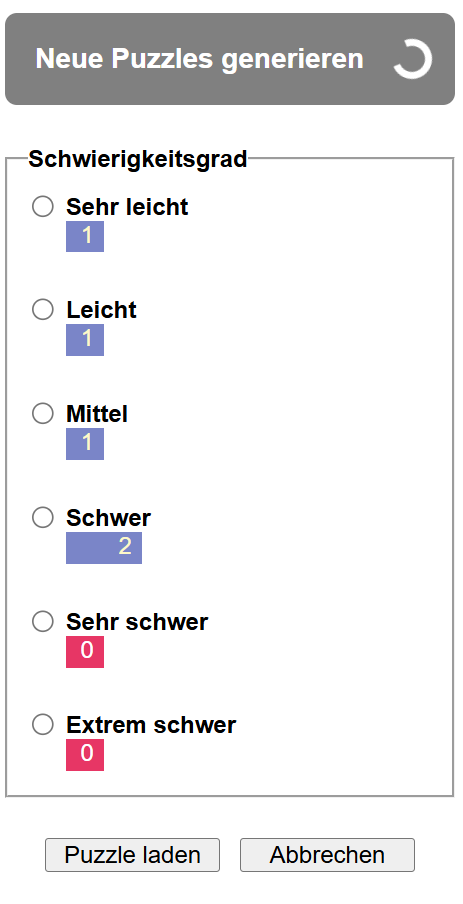
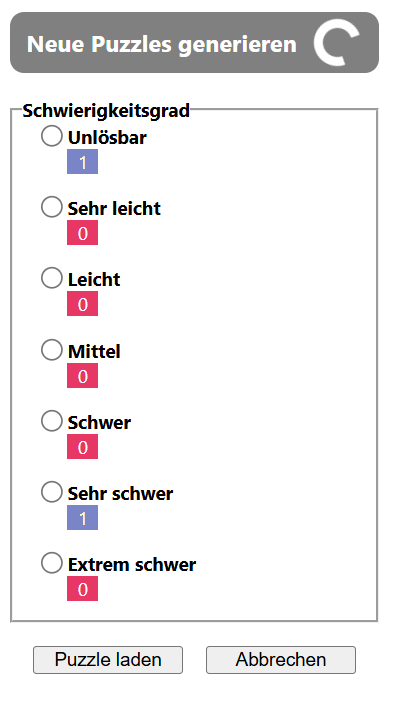
v1967 unloesbar

Changed region(s): [[0.0, 0.0, 0.995, 0.9832], [0.0603, 0.676, 0.4523, 0.7374]]

diff --git a/JS/sudokuCommon.js b/JS/sudokuCommon.js
@@ -1,5 +1,5 @@
 let sudoApp;
-let VERSION = 1066;
+let VERSION = 1067;
 
 // ==========================================
 // Basic classes
@@ -3974,6 +3974,7 @@ class NewPuzzleBuffer {
     // During the initiation of the solver the puzzles in the store 
     // are generated by web-workers in the background.
     constructor() {
+        this.myUnsolvablePuzzles = [];
         this.myVerySimplePuzzles = [];
         this.mySimplePuzzles = [];
         this.myMediumPuzzles = [];
@@ -4023,7 +4024,12 @@ class NewPuzzleBuffer {
     getPuzzle(level) {
         let puzzleRecord = undefined;
         switch (level) {
-            case 'Sehr leicht': {
+             case 'Unlösbar': {
+                if (this.myUnsolvablePuzzles.length > 0) {
+                    puzzleRecord = this.myUnsolvablePuzzles.pop();
+                }
+                break;
+            }case 'Sehr leicht': {
                 if (this.myVerySimplePuzzles.length > 0) {
                     puzzleRecord = this.myVerySimplePuzzles.pop();
                 }
@@ -4079,7 +4085,8 @@ class NewPuzzleBuffer {
 
     isFilled() {
         return (
-            this.myExtremeHeavyPuzzles.length > 0
+            this.myUnsolvablePuzzles.length > 0
+            && this.myExtremeHeavyPuzzles.length > 0
             && this.myVerySimplePuzzles.length > 0
             && this.mySimplePuzzles.length > 0
             && this.myMediumPuzzles.length > 0
@@ -4090,7 +4097,8 @@ class NewPuzzleBuffer {
 
     needsToBeFilledup() {
         return (
-            this.myExtremeHeavyPuzzles.length < 1
+            this.myUnsolvablePuzzles.length < 1
+            || this.myExtremeHeavyPuzzles.length < 1
             || this.myVerySimplePuzzles.length < 1
             || this.mySimplePuzzles.length < 1
             || this.myMediumPuzzles.length < 1
@@ -4107,6 +4115,13 @@ class NewPuzzleBuffer {
                 let puzzleRecord = request.value;
                 // console.log('--- push ---level---(vorher)    ' + puzzleRecord.preRunRecord.level);
                 switch (puzzleRecord.preRunRecord.level) {
+                    case 'Unlösbar': {
+                        sudoApp.myNewPuzzleBuffer.myUnsolvablePuzzles.push(puzzleRecord);
+                        if (sudoApp.myNewPuzzleDlg.myOpen) {
+                            sudoApp.myNewPuzzleDlg.upDate();
+                        }
+                        break;
+                    }
                     case 'Sehr leicht': {
                         sudoApp.myNewPuzzleBuffer.myVerySimplePuzzles.push(puzzleRecord);
                         if (sudoApp.myNewPuzzleDlg.myOpen) {

diff --git a/JS/generatorWorker.js b/JS/generatorWorker.js
@@ -76,6 +76,25 @@ class NewPuzzleGenerator {
             }
         }
     }
+    changedSolvedCell2given(puzzleRecord) {
+        let unsolvablePZ = JSON.parse(JSON.stringify(puzzleRecord));
+        let randomCellOrder = Randomizer.getRandomNumbers(81, 0, 81);
+        for (let i = 0; i < 81; i++) {
+            let k = randomCellOrder[i];
+            if (unsolvablePZ.puzzle[k].cellValue == '0') {
+                let changedValue = Number.parseInt(unsolvablePZ.preRunRecord.solvedPuzzle[k].cellValue) + 1;
+                if (changedValue > 9) {
+                    changedValue = 1;
+                }
+                unsolvablePZ.puzzle[k].cellValue = changedValue.toString();
+                unsolvablePZ.puzzle[k].cellPhase = 'define';
+                let preRec = sudoApp.mySolver.computePuzzlePreRunData(unsolvablePZ.puzzle);
+                unsolvablePZ.preRunRecord.level = 'Unlösbar';
+                unsolvablePZ.preRunRecord.backTracks = '-';
+                return unsolvablePZ;
+            }
+        }
+    }
 
     async start() {
         let commandFromMain = 'proceedGeneration';
@@ -112,7 +131,19 @@ class NewPuzzleGenerator {
                 extremeHeavySend3.id = Date.now().toString(36) + Math.random().toString(36).substr(2);
                 command = await this.send2Main(extremeHeavySend3);
             }
-        } else if (puzzleRecord.preRunRecord.level !== 'Unlösbar'
+        } else if (puzzleRecord.preRunRecord.level == 'Sehr schwer') {
+            // Case very heavy puzzle generated
+            let veryHeavySend = JSON.parse(JSON.stringify(puzzleRecord));
+            command = await this.send2Main(veryHeavySend);
+            if (command !== 'stopGeneration') {
+                // A very heavy puzzle can be made into a unsolvable puzzle 
+                // by adding a changed solved cell to the givens.
+                let unsolvableSend = this.changedSolvedCell2given(veryHeavySend);
+                unsolvableSend.id = Date.now().toString(36) + Math.random().toString(36).substr(2);
+                command = await this.send2Main(unsolvableSend);
+            }
+        }
+        else if (puzzleRecord.preRunRecord.level !== 'Unlösbar'
             && puzzleRecord.preRunRecord.level !== 'Keine Angabe') {
             // The normal case
             command = await this.send2Main(puzzleRecord);

diff --git a/JS/sudokuMainApp.js b/JS/sudokuMainApp.js
@@ -157,6 +157,7 @@ function setPuzzleShareBtnEventHandler() {
 // ==========================================
 class NewPuzzlesBar {
     constructor() {
+        this.unsolvable = document.getElementById("unsolvable");
         this.verySimple = document.getElementById("very-simple");
         this.simple = document.getElementById("simple");
         this.medium = document.getElementById("medium");
@@ -166,6 +167,7 @@ class NewPuzzlesBar {
 
     }
     init() {
+        this.unsolvable.style.width = "10%"
         this.verySimple.style.width = "10%"
         this.simple.style.width = "10%"
         this.medium.style.width = "10%"
@@ -193,7 +195,20 @@ class NewPuzzlesBar {
         }
 
         switch (level) {
-            case 'Sehr leicht': {
+              case 'Unlösbar': {
+                this.unsolvable.style.width = puzzleCountProzent + "%";
+                this.unsolvable.innerHTML = puzzleCount;
+                this.unsolvable.style.paddingRight = "6px";
+                if (puzzleCount == 0) {
+                    this.unsolvable.style.backgroundColor = 'var(--error-cell-bg-color)';
+                    this.unsolvable.style.color = 'var(--error-cell-color)';
+                } else {
+                    this.unsolvable.style.backgroundColor = 'var(--defined-cell-bg-color)';
+                    this.unsolvable.style.color = 'var(--defined-cell-color)';
+                }
+                break;
+            }
+          case 'Sehr leicht': {
                 this.verySimple.style.width = puzzleCountProzent + "%";
                 this.verySimple.innerHTML = puzzleCount;
                 this.verySimple.style.paddingRight = "6px";
@@ -279,6 +294,7 @@ class NewPuzzlesBar {
         }
     }
     upDate() {
+        this.setValue('Unlösbar', sudoApp.myNewPuzzleBuffer.myUnsolvablePuzzles.length);
         this.setValue('Sehr leicht', sudoApp.myNewPuzzleBuffer.myVerySimplePuzzles.length);
         this.setValue('Leicht', sudoApp.myNewPuzzleBuffer.mySimplePuzzles.length);
         this.setValue('Mittel', sudoApp.myNewPuzzleBuffer.myMediumPuzzles.length);

diff --git a/index.html b/index.html
@@ -270,6 +270,16 @@
                 </legend>
 
                 <label class="label-container first-label-container">
+                    <input type="radio" id="level-unsolvable" class="level" name="level" value="Unlösbar">
+                    <div class="label-text text-spacing prefix">Unlösbar</div>
+                    <div class="label-text text-spacing">
+                        <div class="new-puzzle-bar" id="unsolvable">
+                             <div id="unsolvable-Bar">20%</div>
+                        </div>
+                    </div>
+                </label>
+
+                <label class="label-container first-label-container">
                     <input type="radio" id="level-very-simple" class="level" name="level" value="Sehr leicht">
                     <div class="label-text text-spacing prefix">Sehr leicht</div>
                     <div class="label-text text-spacing">

diff --git a/sw.js b/sw.js
@@ -10,7 +10,7 @@ var APP_PREFIX = 'sudo_';
 // you need to change this version (version_01, version_02…). 
 // If you don't change the version, the service worker will give your
 // users the old files!
-var VERSION = 'version_1066';
+var VERSION = 'version_1067';
 
 // The files to make available for offline use. make sure to add 
 // others to this list

diff --git a/help.md b/help.md
@@ -3,10 +3,11 @@ layout: default
 ---
 
 1. [Herzlich willkommen zur Sudoku-Trainer-App](#herzlich-willkommen-zur-sudoku-trainer-app)
-   1. [Der Trainer](#der-trainer)
-   2. [Puzzles generieren](#puzzles-generieren)
-   3. [Puzzles speichern](#puzzles-speichern)
-   4. [Architektur der App](#architektur-der-app)
+   1. [Die Sudoku-Grundregeln](#die-sudoku-grundregeln)
+   2. [Der Trainer](#der-trainer)
+   3. [Puzzles generieren](#puzzles-generieren)
+   4. [Puzzles speichern](#puzzles-speichern)
+   5. [Architektur der App](#architektur-der-app)
 2. [Sudoku-Trainer Installation](#sudoku-trainer-installation)
 3. [Teilen der Sudoku-Trainer-App URL](#teilen-der-sudoku-trainer-app-url)
 4. [Einführung in den Sudoku-Trainer](#einführung-in-den-sudoku-trainer)
@@ -54,9 +55,13 @@ layout: default
 
 # Herzlich willkommen zur Sudoku-Trainer-App
 
+## Die Sudoku-Grundregeln
+Die Grundregeln von Sudoku sind, dass jede Zeile, jede Spalte und jeder der neun 3x3-Blöcke die Zahlen von 1 bis 9 jeweils genau einmal enthalten muss. Keine Zahl darf innerhalb einer Zeile, Spalte oder eines 3x3-Blocks wiederholt werden. Das Ziel ist, die leeren Felder durch logisches Denken mit den korrekten Zahlen zu füllen, sodass alle diese Regeln erfüllt sind. 
+
+
 ## Der Trainer
 
-Viele im Internet auffindbare Sudoku-Apps sind reine Sudoku-Solver. Sie lösen ein gegebenes Sudoku-Puzzle. Die vorliegende Sudoku-App ist primär ein Sudoku-Trainer und erst sekundär ein Sudoku-Solver. Sie wendet sich an Gelegenheitsspieler. Also Spieler und Spielerinnen, die beispielsweise ein Puzzle aus einer Zeitschrift lösen wollen, dabei aber steckenbleiben, weil sie die nächste setzbare Nummer nicht finden. Der vorliegende Sudoku-Trainer zeigt Schritt für Schritt, wie man das Puzzle lösen kann. Er liefert also nicht nur die Lösung sondern auch den Weg zur Lösung.
+Viele im Internet auffindbare Sudoku-Apps sind reine Sudoku-Solver. Sie lösen ein gegebenes Sudoku-Puzzle automatisch. Die vorliegende Sudoku-App ist primär ein Sudoku-Trainer und erst sekundär ein Sudoku-Solver. Sie wendet sich an Gelegenheitsspieler. Also Spieler und Spielerinnen, die beispielsweise ein Puzzle aus einer Zeitschrift lösen wollen, dabei aber steckenbleiben, weil sie die nächste setzbare Nummer nicht finden. Der vorliegende Sudoku-Trainer zeigt Schritt für Schritt, wie man das Puzzle lösen kann. Er liefert also nicht nur die Lösung sondern auch den Weg zur Lösung.
 
 Im Internet findet man auch andere Sudoku-Trainer. Bemerkenswert sind die Seiten von [Andrew Stuart](https://www.sudokuwiki.org/Main_Page) und von [Jan Feldmann](https://sudoku.coach/). Ihre Trainer-Apps vermitteln dem Spieler die Anwendung logischer Schlussregeln für die Lösung von Puzzles. Die Herausforderung besteht darin, völlig ohne Backtracking, allein durch Anwendung der Schlussregeln, das gegebene Puzzle zu lösen. Diese Trainer-Apps wenden sich daher eher an Sudoku-Freaks.
 
@@ -65,13 +70,12 @@ Im Internet findet man auch andere Sudoku-Trainer. Bemerkenswert sind die Seiten
     <figcaption style="font-size: 16px; font-style: italic;">Ziele des Trainers</figcaption>
 </figure>
 
-Die vorliegende App analysiert gegebene Puzzles auf Unlösbarkeit, indem sie die Puzzles zu lösen versucht und dabei auf elementare Widersprüche stößt, wie beispielsweise eine Zelle, für die es überhaupt keinen Kandidaten mehr gibt.
-
 Hervorzuheben sind auch die Definitionen der Schwierigeitsgrade der Puzzles. Beipsielsweise können 'Sehr leichte', Leichte' und 'Mittlere' Puzzles ohne Buchführung der Kandidaten einer Zelle gelöst werden. Es ist daher nicht verwunderlich, dass die Puzzles in Zeitungen und Zeitschriften fast immer diese leichten Schwierigkeitsgrade haben.
 
 ## Puzzles generieren
 
-Die App besitzt einen Puzzle-Generator. Der **Sudoku-Generator** generiert faire Puzzles mit den Schwierigkeitsgraden 'Sehr leicht', 'Leicht', 'Mittel' und 'Schwer'. Im Gegensatz zu 'Sehr schweren' oder 'Extrem schweren' Puzzles können faire Puzzles allein durch logisches Schließen gelöst werden. Sie benötigen kein "Backtracking", kein Raten und Probieren.
+Die App besitzt einen Puzzle-Generator. Der **Sudoku-Generator** generiert Puzzles für alle Schwierigkeitsgrade. 
+Auch unlösbare Puzzles werden generiert. So kann der Spieler miterleben, wie der Trainer die Unlösbarkeit aufdeckt. Die vorliegende App analysiert gegebene Puzzles auf Unlösbarkeit, indem sie die Puzzles zu lösen versucht und dabei auf elementare Widersprüche stößt, wie beispielsweise eine Zelle, für die es überhaupt keinen Kandidaten mehr gibt.
 
 ## Puzzles speichern
 
@@ -238,7 +242,7 @@ Die App startet im Hintergrund einen Puzzle-Generator, der solange neue Puzzles 
 
 Hinweis: der Generator kann nicht gezielt ein Puzzle für einen vorgegebenen Schwierigkeitsgrad erzeugen. Vielmehr generiert er ein neues Puzzle und bestimmt dann, welchen Schwierigkeitsgrad das erzeugte Puzzle hat.
 
-Der Spieler kann im Dialog einen nicht leeren Schwierigkeitsgrad selektieren und ein entsprechendes Puzzle laden. Er braucht nicht auf den Stopp des Generators warten.
+Der Spieler kann im Dialog einen nicht leeren Schwierigkeitsgrad selektieren und ein entsprechendes Puzzle laden. Er braucht nicht auf den Stopp des Generators zu warten.
 
 **Taste: Undo.** Durch das Drücken dieser Taste wird die letzte Zellenoperation zurückgenommen.
 
@@ -665,10 +669,10 @@ Puzzles mit mehreren Lösungen spielen in der Praxis keine große Rolle, da sie 
 ### Schwierigkeitsgrade (Levels) von Puzzles
 
 Der Schwierigkeitsgrad eines Sudoku-Puzzles kann auf verschiedene Weisen definiert werden. Dieser Solver unterscheidet Schwierigkeitsgrade anhand der Komplexität der erforderlichen Lösungstechniken. Folgende Schwierigkeitsgrade werden unterschieden:
-
+1. **Unlösbar:** Es gibt keine Belegung aller offenen Zellen des Puzzles, sodass alle Sudoku-Regeln erfüllt sind.
 1. **Sehr Leicht:** Allein durch das Scannen Notwendiger Kandidaten kann die Lösung des Sudokus erreicht werden.
 1. **Leicht:** Wie Sehr Leicht, jedoch ist die Anzahl der Givens minimal.
-1. **Mittel:** Neben dem Scannen notwendiger Kandidaten benötigt der Solver mindestens einen Scann-Single-Schritt, um das Puzzle zu lösen.
+1. **Mittel:** Neben dem Scannen notwendiger Kandidaten benötigt der Solver mindestens einen Scann-Single-Schritt, um das Puzzle zu lösen. Zugleich ist dies der höchste Schwierigkeitsgrad, der ohne eine Kandidatenbuchführung auskommt.
 1. **Schwer:** Bei diesem Schwierigkeitsgrad benötigt der Solver mindestens ein Verstecktes-Single, um das Puzzle zu lösen. Für die Bestimmung des versteckten Singles müssen eliminierbare Kandidaten (rot dargestellt) bestimmt werden mit Hilfe der [Kriterien für die Erkennung eliminierbarer Kandidaten](#kriterien-für-die-erkennung-eliminierbarer-kandidaten). Dies unterscheidet diesen Schwierigkeitsgrad vom Schwierigkeitsgrad 'Mittel'. Zugleich ist dies der höchste Schwierigkeitsgrad, der ohne Backtracking auskommt.
 1. **Sehr Schwer:** Bei diesem Schwierigkeitsgrad muss der Solver für mindestens eine Zelle ein Trial & Error durchführen, also eine Nummer raten und ausprobieren. "Backtracking" ist das dazugehörige Stichwort. Der Solver führt für die Berechnung der eindeutigen Lösung unter Umständen zahlreiche Error-Rückwärtsläufe (Error-RL)durch. Die Anzahl der für die (eindeutige) Lösung nötigen Rückwärtsläufe '# Error-RL' wird in der Datenbanktabelle angezeigt.
 1. **Extrem Schwer**: 'Extrem schwer' sind Puzzles, die mehrere Lösungen haben. Mit der Taste 'Lösungen zählen ...' kann die Suche nach den Lösungen angestoßen werden. Wenn alle Lösungen aufgezählt sind, hält der Suchprozess an und zeigt die Anzahl der gefundenen Lösungen an. Aber Achtung: Die Anzahl der Lösungen kann sehr groß werden. Betrachten wir beispielsweise das vollständig leere Puzzle. Es hat überhaupt keine Givens. Die Menge der Lösungen dieses Puzzles entspricht der Menge der verschiedenen, vollständig ausgefüllten 9×9-Standard-Sudokus. Die Größe dieser Menge liegt bei ca. 6,7 Trilliarden. Siehe Wikipedia Abschnitt "Die Anzahl der Sudokus". [https://de.wikipedia.org/wiki/Sudoku](https://de.wikipedia.org/wiki/Sudoku). Wenn die Anzahl der Lösungen sehr groß ist, wird der Spieler den automatischen Suchprozess sinnvollerweise abbrechen.
